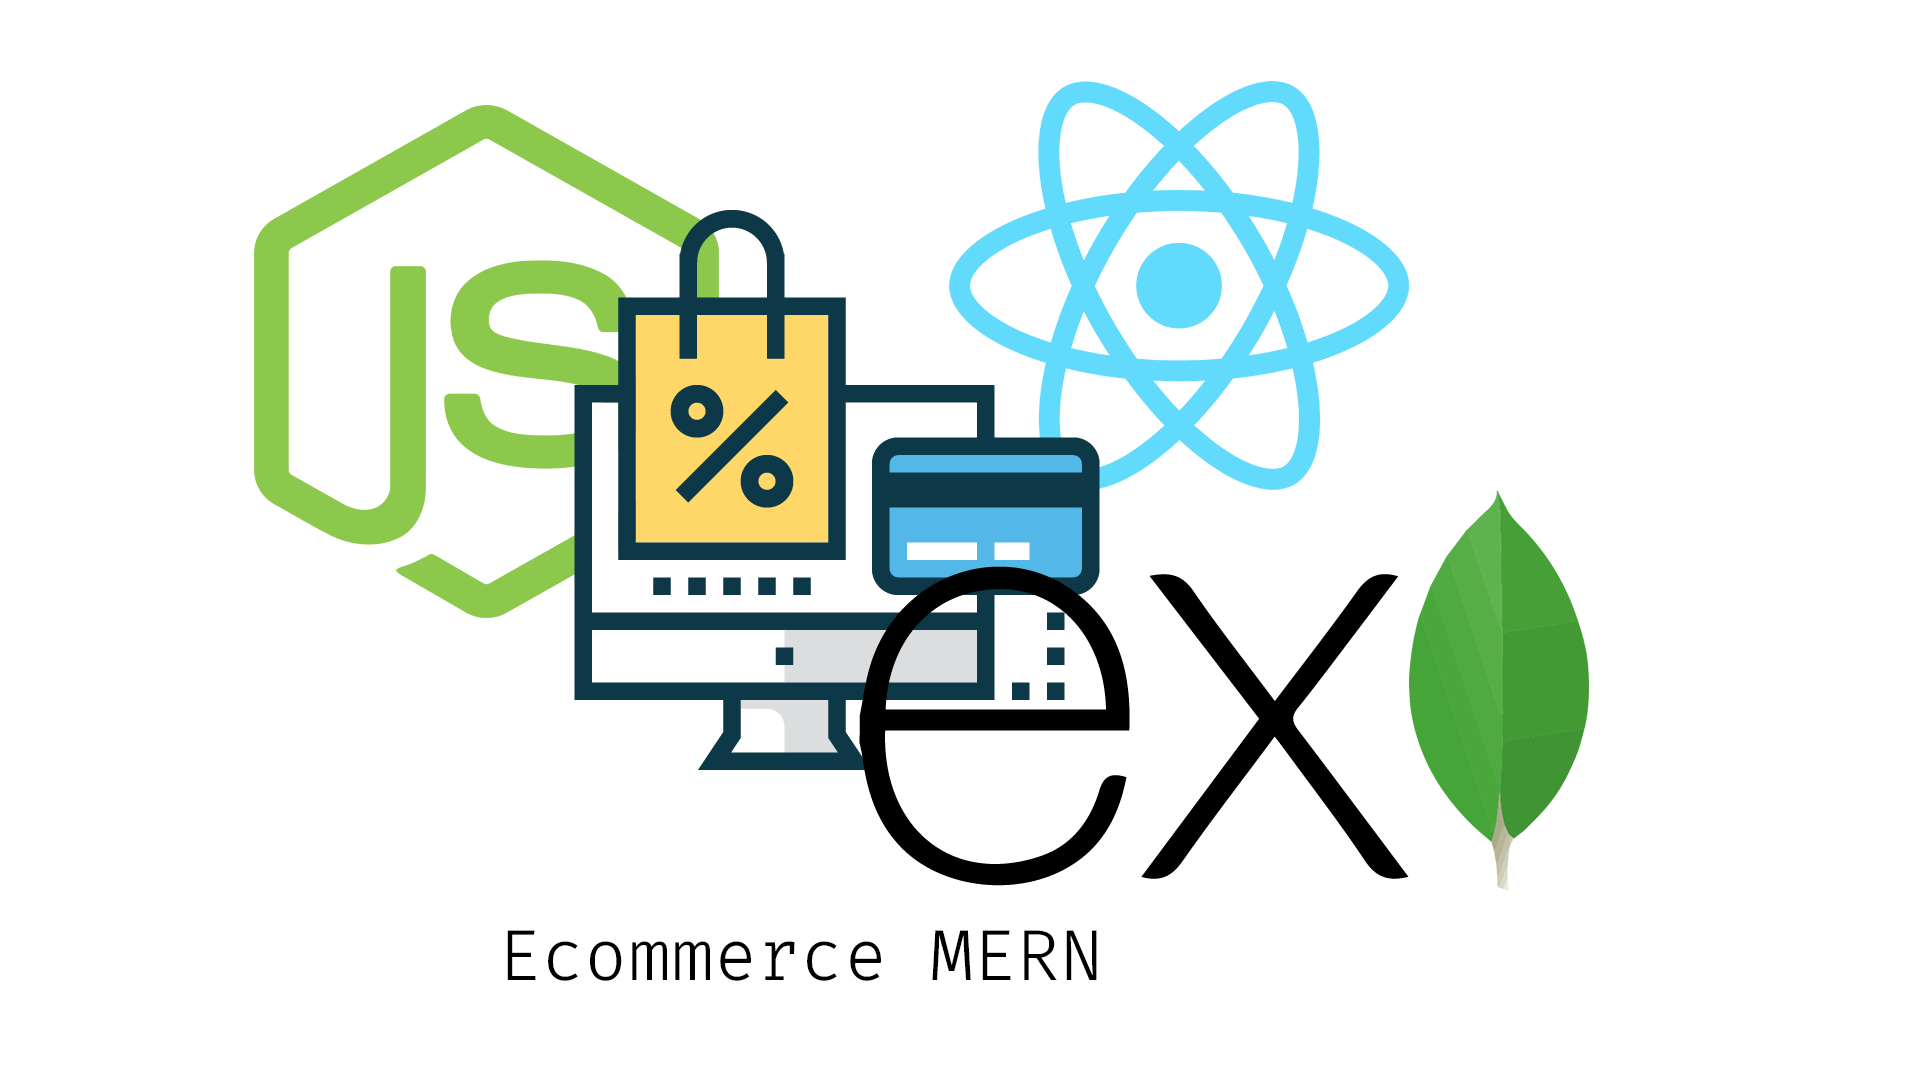
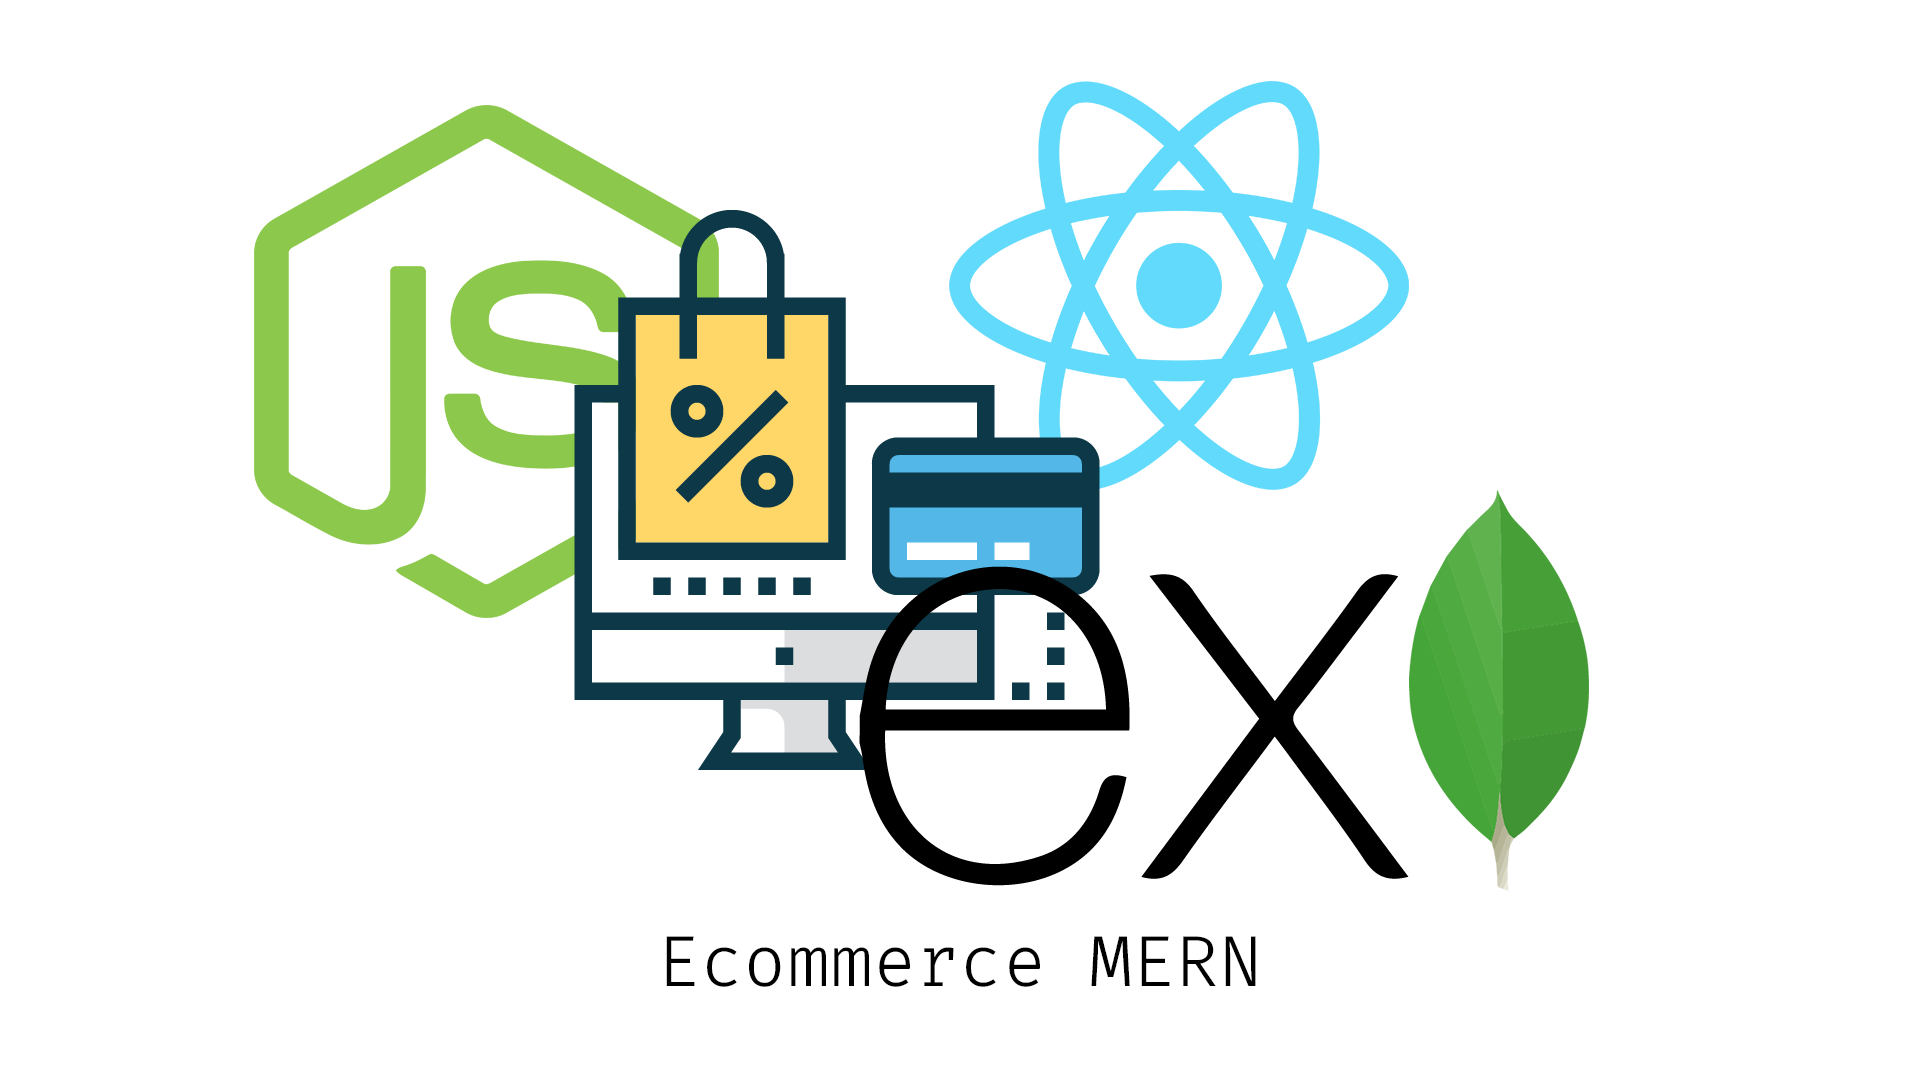
Actualización a seccion my work

Changed region(s): [[0.25, 0.8556, 0.6562, 0.9167]]

diff --git a/src/data/index.js b/src/data/index.js
@@ -190,12 +190,12 @@ export const myWork = [
         link: "https://github.com/fsjorgeluis/micromailer",
     },
     {
-        title: "NestJs blog api (TypeScript)",
+        title: "(TypeScript) NestJs + TypeORM (MySQL) Blog API",
         src: nestjsBlogApi,
         link: "https://github.com/fsjorgeluis/bloggy",
     },
     {
-        title: "ReactJs+Express e-commerce",
+        title: "MongoDB, Express, ReactJs NodeJs (MERN) e-commerce",
         src: ecommerceMERN,
         link: "https://github.com/fsjorgeluis/codeshop",
     },
